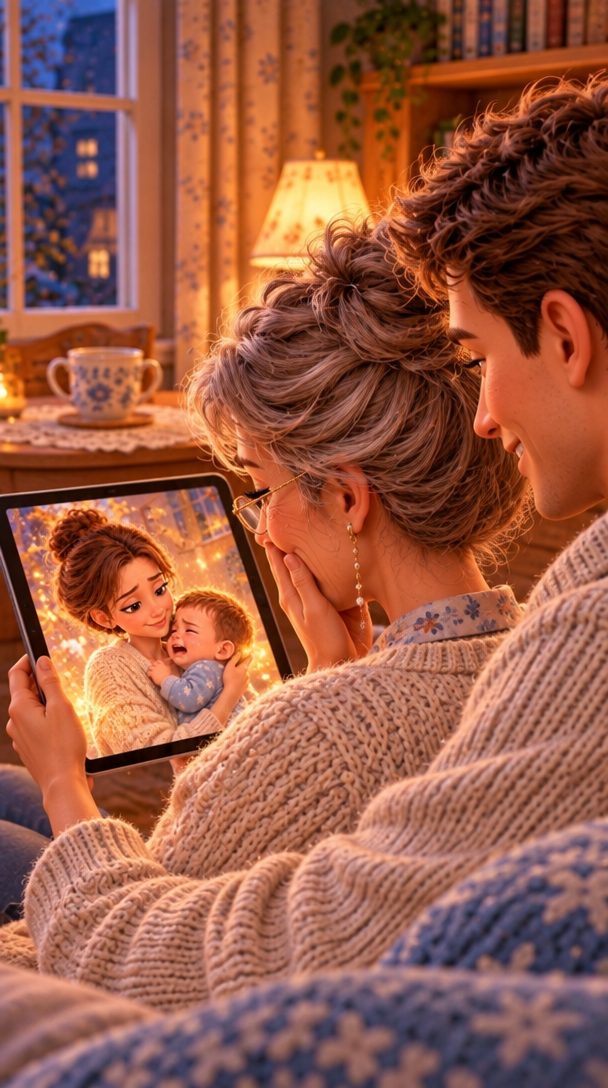
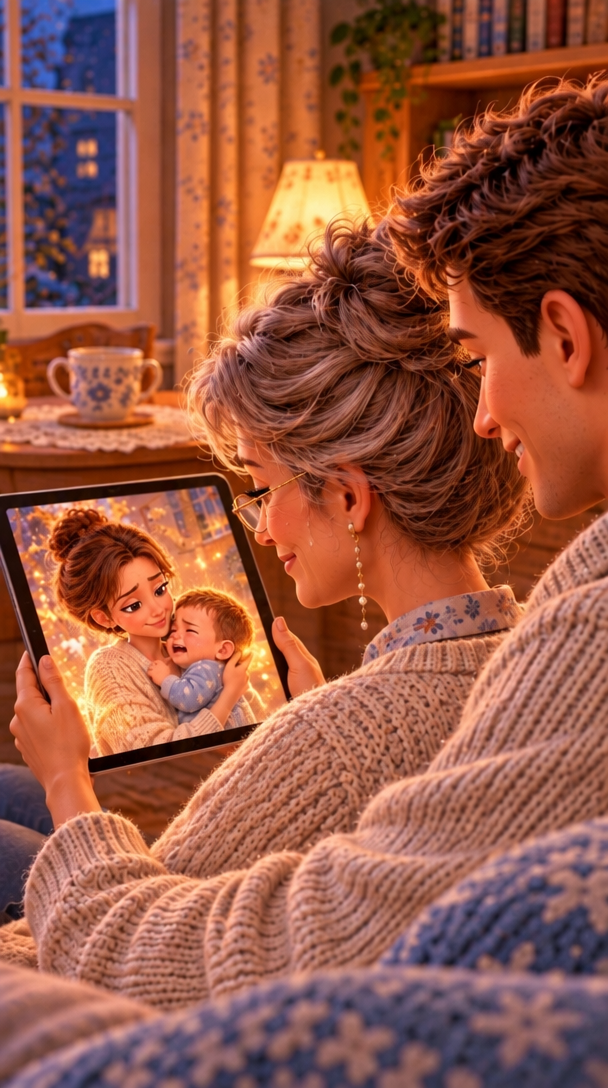
День матери: кадр 4 без руки у лица, кадр 5 объятие крупно
Claude-Session: https://claude.ai/code/session_01TXwNN2je3RbbmpXYz6m2NX

diff --git a/den-materi/pravka.py b/den-materi/pravka.py
@@ -1,0 +1,20 @@
+import os, sys, urllib.request, fal_client
+os.environ.setdefault("FAL_KEY","proxy-injected")
+M="openai/gpt-image-2.6/flare/edit"
+def go(out, prompt, refs):
+    r=fal_client.subscribe(M,arguments={"prompt":prompt,"image_urls":[fal_client.upload_file(x) for x in refs],
+       "image_size":"portrait_16_9","quality":"medium","num_images":1,"output_format":"png"})
+    urllib.request.urlretrieve(r["images"][0]["url"],out); print(out,"ok",flush=True)
+k=sys.argv[1]
+if k=="04":
+    go("kadry/04.png","Edit image 1: keep EVERYTHING exactly the same (composition, camera angle, the tablet and the cartoon on its screen, the son, the room, light, style), "
+       "ONLY change the mother's hands: she no longer touches her face; she holds the tablet with BOTH hands, one on each side of the tablet. "
+       "Her face is visible in profile with a touched, happy expression and a tear on her cheek. Exactly two hands for her, anatomically correct. No text.",
+       ["kadry/04_v3.png"])
+else:
+    go("kadry/05.png","Vertical 9:16 close-up frame from the same warm 3D animated film (Pixar-like) as image 1: the grown-up son from image 1 hugs his mother "
+       "(the same older woman from image 1: silver-grey hair in a bun, reading glasses on a chain, beige knitted cardigan) tightly, cheek to cheek, "
+       "both faces clearly visible to the camera. She has her eyes closed with happy tears on her cheeks and a gentle smile, he smiles warmly with eyes closed. "
+       "Her arms hug his back. Correct anatomy, exactly two arms each. Same cozy living room in soft warm evening light, blurred background, "
+       "no Christmas decorations. Same faces as in image 1, the son looks like the boy in image 2 grown up. No text.",
+       ["kadry/04_v3.png","kadry/02.png","kadry/03.png"])
